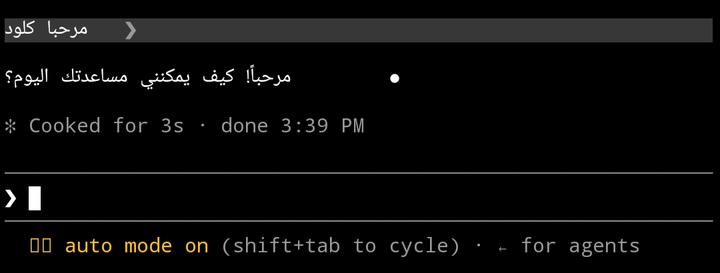
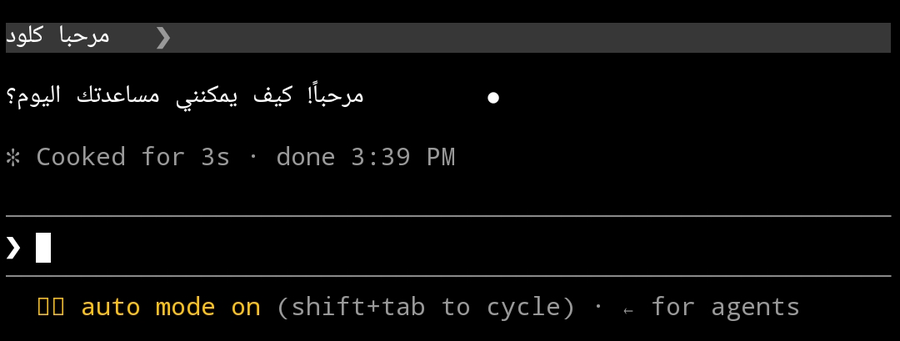
docs: stack screenshots vertically at full width, higher resolution
Claude-Session: https://claude.ai/code/session_011HrevonBWhw645XzspoZd4

diff --git a/README.md b/README.md
@@ -16,11 +16,19 @@
 
 <div align="center">
 
-<img src="docs/images/claude-code-chat.png" width="46%" alt="Claude Code answering in Arabic inside AR Termux"> <img src="docs/images/opencode-summary.png" width="46%" alt="OpenCode summarizing a file in Arabic inside AR Termux">
+### Claude Code · كلود كود
+<img src="docs/images/claude-code-chat.png" width="720" alt="Claude Code answering in Arabic inside AR Termux">
 
-<img src="docs/images/claude-code-explain.png" width="50%" alt="Claude Code explaining package.json in Arabic, with a JSON code block"> <img src="docs/images/claude-code-skills.png" width="36%" alt="Claude Code listing skills in Arabic with a table, mixed Arabic and English">
+### OpenCode
+<img src="docs/images/opencode-summary.png" width="720" alt="OpenCode summarizing a file in Arabic inside AR Termux">
 
-<sub>Claude Code and OpenCode running inside AR Termux (Android 14). Arabic is connected and reads right-to-left; code stays left-to-right.<br>Screenshots are from a real device — see <a href="docs/LIMITATIONS.md">known limitations</a>.</sub>
+### شرح بالعربي مع كود · Arabic explanation with code
+<img src="docs/images/claude-code-explain.png" width="720" alt="Claude Code explaining package.json in Arabic, with a JSON code block">
+
+### قوائم وجداول · Lists and tables
+<img src="docs/images/claude-code-skills.png" width="720" alt="Claude Code listing skills in Arabic with a table, mixed Arabic and English">
+
+<sub>Real screenshots from a phone (Android 14). Arabic is connected and reads right-to-left; code stays left-to-right.<br>See <a href="docs/LIMITATIONS.md">known limitations</a>.</sub>
 
 </div>
 
